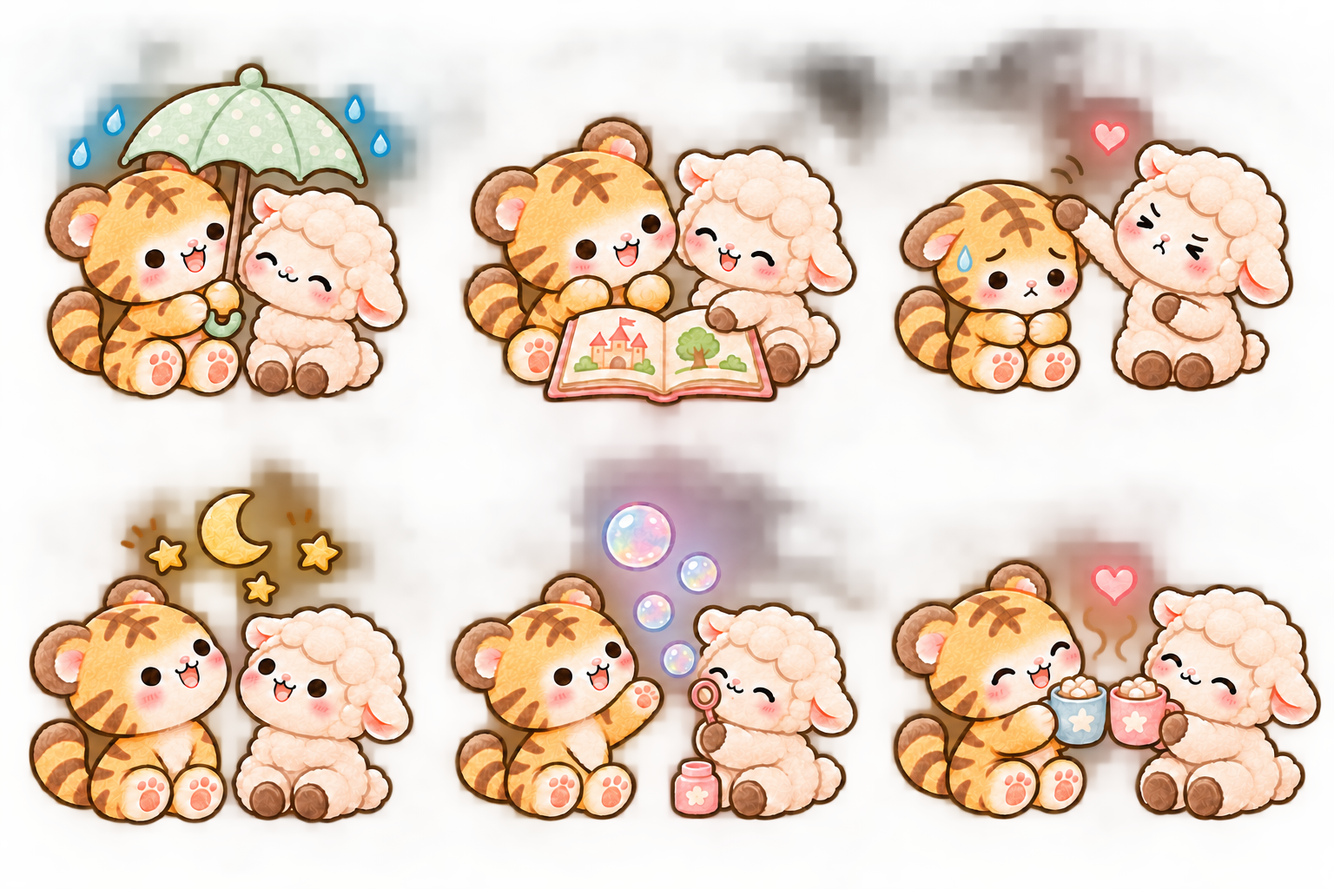
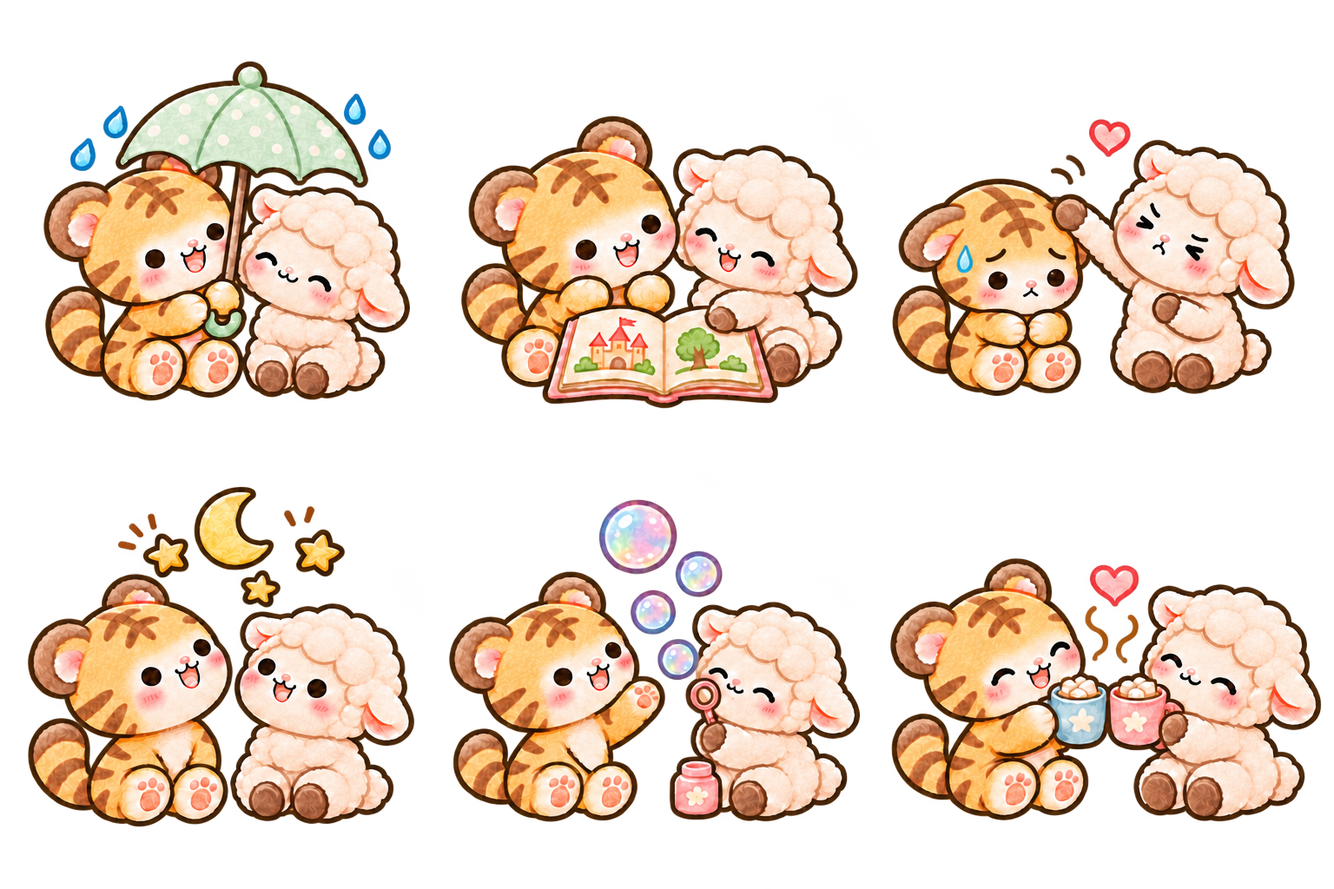
Clean interaction transparency and add memory-only note drafts 1.7.4

Changed region(s): [[0.0, 0.0312, 0.9688, 0.9375], [0.9375, 0.7188, 1.0, 0.9062], [0.8438, 0.2188, 0.9062, 0.2812]]

diff --git a/cloud-ui.js b/cloud-ui.js
@@ -1,3 +1,4 @@
+import {noteDrafts,noteDraftKey,attachNoteDraft,markNoteCompose} from './note-drafts.js';
 import {ReplyDrafts} from './reply-drafts.js';
 import {journalFilter,matchesJournal,searchControls,mountSearch,highlight,keywordHit,searchReveal,installCompose} from './journal-search.js';
 export function cloudInterface(h){
@@ -12,18 +13,19 @@ export function cloudInterface(h){
  function mountBar(main){const div=document.createElement('div');div.innerHTML=header();main.prepend(div);attach(div);}
  function login(){const session=cloud.session,d=sheet('登录云端唠唠本',`${field('账号',`<input name="username" required maxlength="32" autocomplete="username" value="${esc(session?.user.username||'')}">`)}${field('密码','<input name="password" required type="password" maxlength="128" autocomplete="current-password">')}<p class="help">账号和密码均不区分大小写。账号由管理员添加，没有公开注册。可在账号菜单中修改密码。</p><p class="error" role="alert"></p>`,`${button('取消','cancel')}<button class="primary" type="submit">登录</button>`);bind(d,'cancel',()=>d.close());$('form',d).onsubmit=async ev=>{ev.preventDefault();const f=ev.target,b=f.querySelector('[type=submit]');b.disabled=true;try{const result=await cloud.login(f.elements.username.value,f.elements.password.value);d.close();scope='shared';refresh();if(result.user.forceChange)password();}catch(e){$('.error',d).textContent=e.message;}finally{b.disabled=false;}};}
  function password(){const forced=cloud.session?.user.forceChange,d=sheet(forced?'先为账号设置新密码':'修改云端密码',`${field('原密码','<input name="old" type="password" required autocomplete="current-password">')}${field('新密码','<input name="next" type="password" required minlength="12" maxlength="128" autocomplete="new-password">')}${field('再次输入新密码','<input name="confirm" type="password" required autocomplete="new-password">')}<p class="help">至少 12 位，包含字母和数字或符号。不区分大小写。修改后其它设备需要重新登录。</p><p class="error" role="alert"></p>`,`${button('稍后','cancel')}<button class="primary" type="submit">保存新密码</button>`);bind(d,'cancel',()=>d.close());$('form',d).onsubmit=async ev=>{ev.preventDefault();const f=ev.target;if(f.elements.next.value.toLowerCase()!==f.elements.confirm.value.toLowerCase())return $('.error',d).textContent='两次输入的新密码不一致';const b=f.querySelector('[type=submit]');b.disabled=true;try{await cloud.password(f.elements.old.value,f.elements.next.value);d.close();refresh();toast('密码已修改，旧登录已失效');}catch(e){$('.error',d).textContent=e.message;}finally{b.disabled=false;}};}
- function menu(){const d=sheet('云端账号',`<h3>${esc(cloud.session.user.displayName)}</h3><p>${esc(cloud.status)}</p><p class="help">待上传 / 冲突项目：${cloud.pendingCount}。退出会移除本机云端缓存，不影响云端内容和本地旧记录。存在待上传内容时暂不退出，以免丢失修改。</p><div class="stack">${button('纪念日同步','calendar-settings')}${button('修改密码','password')}${button('导出当前账号缓存','export')}${button('退出登录','logout')}${button('共享动态通知','push-settings')}${Object.keys(cloud.state.responsePending||{}).length?button('管理待发回应','pending-replies'):''}</div><p class="error"></p>`);bind(d,'calendar-settings',()=>{d.close();calendarSettings();});bind(d,'push-settings',()=>{d.close();pushSettings();});bind(d,'pending-replies',()=>{d.close();pendingReplies();});bind(d,'password',()=>{d.close();password();});bind(d,'export',()=>{h.exportCloud({private:cloud.list('private'),shared:cloud.list('shared'),pendingResponses:cloud.state.responsePending||{}});});bind(d,'logout',async()=>{try{await cloud.logout();replyDrafts.clear();d.close();scope='shared';refresh();}catch(e){$('.error',d).textContent=e.message;}});}
+ function menu(){const d=sheet('云端账号',`<h3>${esc(cloud.session.user.displayName)}</h3><p>${esc(cloud.status)}</p><p class="help">待上传 / 冲突项目：${cloud.pendingCount}。退出会移除本机云端缓存，不影响云端内容和本地旧记录。存在待上传内容时暂不退出，以免丢失修改。</p><div class="stack">${button('纪念日同步','calendar-settings')}${button('修改密码','password')}${button('导出当前账号缓存','export')}${button('退出登录','logout')}${button('共享动态通知','push-settings')}${Object.keys(cloud.state.responsePending||{}).length?button('管理待发回应','pending-replies'):''}</div><p class="error"></p>`);bind(d,'calendar-settings',()=>{d.close();calendarSettings();});bind(d,'push-settings',()=>{d.close();pushSettings();});bind(d,'pending-replies',()=>{d.close();pendingReplies();});bind(d,'password',()=>{d.close();password();});bind(d,'export',()=>{h.exportCloud({private:cloud.list('private'),shared:cloud.list('shared'),pendingResponses:cloud.state.responsePending||{}});});bind(d,'logout',async()=>{try{await cloud.logout();replyDrafts.clear();noteDrafts.clear();d.close();scope='shared';refresh();}catch(e){$('.error',d).textContent=e.message;}});}
  function calendarSettings(){const enabled=cloud.calendar?.enabled;const d=sheet('纪念日同步',`<p>与唠唠本使用同一账号，仅本账号设备同步，不分享给另一账号。</p><p class="help">同步日期、公历/农历、提醒、首页日子和基础卡片样式；卡片照片、桌面组件与手机权限各设备保留。基础设置加密保存在同步服务。首次开启会合并本机与云端日子；冲突内容保留为本机副本。</p><p>${esc(cloud.state.calendar?.message||(enabled?'默认开启，等待同步':'已暂停同步'))}</p><p class="error"></p>`,`${button('关闭','cancel')}${button(enabled?'暂停同步':'开启并合并','enable-calendar','primary')}`);bind(d,'cancel',()=>d.close());bind(d,'enable-calendar',async()=>{try{await cloud.calendar.enable(!enabled);d.close();toast(enabled?'已暂停；云端与本机日子均保留':'已开启，正在同步纪念日');}catch(e){$('.error',d).textContent=e.message;}});}
  function render(main){main.onclick=ev=>{const photo=ev.target.closest('[data-cloud-photo]');if(photo){const n=cloud.list(scope).find(n=>n.id===photo.dataset.cloudNote);if(n)h.gallery(n.photos,+photo.dataset.cloudPhoto);return;}const head=ev.target.closest('.note-head[data-fold-note]');if(head&&!ev.target.closest('button')){head.querySelector('[data-fold]').click();return;}const accept=ev.target.closest('[data-accept-response]');if(accept){h.confirm('使用云端回应？','只移除本机冲突的待发修改，保留云端已合并的回应。',()=>cloud.discardResponse(accept.dataset.acceptResponse));return;}const fold=ev.target.closest('[data-response-fold]');if(fold){const key=fold.dataset.responseFold,set=fold.dataset.foldKind==='text'?textExpansion:responseExpansion;set.set(key,fold.dataset.open!=='true');const saved=h.captureReading();render(main);h.restoreReading(saved);return;}const edit=ev.target.closest('[data-edit-response]');if(edit){const r=cloud.responseList(edit.dataset.note).find(r=>r.id===edit.dataset.editResponse);if(r)reply(edit.dataset.note,r);return;}const b=ev.target.closest('[data-response]');if(b)reply(b.dataset.response);};main.innerHTML=header()+`<div class="journal-heading section"><h2>${scope==='shared'?'我们的共享本':'只属于我的日记'}</h2>${button('全部收起 ⌃','collapse-all','fold-all')}</div><div class="journal-sticky">${searchControls(esc,'搜索云端日记')}</div><div class="small muted" id="search-count"></div><div id="cloud-list" style="margin-top:18px"></div>`;attach(main);const draw=()=>{const all=cloud.list(scope).filter(n=>matchesJournal(n,journalFilter,n._cloud.author+' '+date(n._cloud.updatedAt)+' '+(n.editedAt?date(n.editedAt):'')+' '+cloud.responseList(n.id).filter(r=>!r.deleted).map(r=>r.comment+' '+r.author+' '+date(r.updatedAt)+' '+(r.reaction?MOODS[r.reaction.mood]:'')).join(' ')));$('#search-count',main).textContent=(journalFilter.query||journalFilter.from||journalFilter.until)?'找到 '+all.length+' 条记录':'';$('#cloud-list',main).innerHTML=all.length?all.map((n,index)=>{const key=scope+':'+n.id;const open=expansion.has(key)?expansion.get(key):searchReveal()||index===0&&!h.foldAll?.();if(n._cloud.unavailable)return recoveryCard(n);return open?`<article class="panel journal-note" data-note-anchor="${esc(scope+':'+n.id)}"><div class="row note-head" data-fold-note="${esc(n.id)}" role="button" tabindex="0" aria-label="收起这篇记录"><img class="pet ${keywordHit(MOODS[n.mood])?'mood-hit':''}" src="${pet(n.tiger,n.mood)}" alt=""><div><h3>${highlight(n._cloud.author)}${n._cloud.owner===cloud.session.user.id?' · 我':''} · ${highlight(MOODS[n.mood])}</h3><span class="small muted">记录：${highlight(n.date.replace('T',' '))}<br>${n._cloud.pending?'本机修改：':n.editedAt?'修改：':'云端更新：'}${highlight(date(n.editedAt||n._cloud.updatedAt))}</span></div><div class="note-fold-row"><button type="button" data-fold="${esc(n.id)}" data-latest="${index===0}" data-open="true">收起 ⌃</button></div></div><p class="note-text">${highlight(n.text)}</p>${n.photos?.length?`<div class="note-photos">${n.photos.map((p,i)=>`<img data-cloud-photo="${i}" data-cloud-note="${esc(n.id)}" src="${esc(p)}" alt="照片 ${i+1}" loading="lazy">`).join('')}</div>`:''}${n._cloud.conflict?`<p class="error">其它设备已更新，本地副本已保留。请选择处理方式。</p><div class="row">${button('保留为新篇','copy-'+n.id)}${button('使用云端版本','discard-'+n.id)}</div>`:n._cloud.pending?'<p class="help">待同步，内容已保存在本机</p>':''}${scope==='shared'&&!n._cloud.pending?responseArea(n.id):''}${n._cloud.owner===cloud.session.user.id?`<div class="note-actions">${button('编辑','edit-'+n.id)}</div>`:'<p class="help">对方写的内容，可以回应</p>'}</article>`:`<article class="panel journal-note compact-note" data-note-anchor="${esc(scope+':'+n.id)}"><button type="button" class="compact-toggle" data-fold="${esc(n.id)}" data-latest="${index===0}" data-open="false" aria-expanded="false"><img class="pet ${keywordHit(MOODS[n.mood])?'mood-hit':''}" src="${pet(n.tiger,n.mood)}" alt="${esc(MOODS[n.mood])}"><span class="grow"><span class="small muted">${highlight(n._cloud.author)}${n._cloud.owner===cloud.session.user.id?' · 我':''} · ${highlight(n.date.replace('T',' '))}</span><span class="one-line">${highlight(n.text||'珍藏的照片')}</span><span class="small muted">${scope==='shared'?cloud.responseList(n.id).filter(r=>!r.deleted).length+' 条回应 · ':''}${n._cloud.conflict?'待处理冲突 · ':n._cloud.pending?'待同步 · ':''}点开看看</span></span><span>⌄</span></button></article>`;}).join(''):`<div class="empty"><img src="./assets/couple.png" alt="虎羊抱心"><h3>${journalFilter.query||journalFilter.from||journalFilter.until?'没有找到匹配记录':cloud.session.user.forceChange?'先修改初始密码':scope==='shared'?'把小幸福分享给对方':'留一点只属于自己的心事'}</h3><p>${scope==='shared'?'双方都能看到，各自只能改自己的记录。':'会同步到云端，但不分享给另一个应用账号。'}</p></div>`;
    main.querySelectorAll('.note-head[data-fold-note]').forEach(head=>head.onkeydown=e=>{if(e.target===head&&(e.key==='Enter'||e.key===' ')){e.preventDefault();head.querySelector('[data-fold]').click();}});for(const n of all){bind(main,'recover-'+n.id,()=>recover(n));bind(main,'edit-'+n.id,()=>edit(n));bind(main,'copy-'+n.id,async()=>{await cloud.keepCopy(n.id);refresh();});bind(main,'discard-'+n.id,async()=>{await cloud.discard(n.id);refresh();});}
    const deleting=Object.entries(cloud.state.pending).filter(([,p])=>p.deleted&&p.conflict);if(deleting.length){const div=document.createElement('div');div.className='panel';div.innerHTML='<h3>待处理的删除冲突</h3><p class="help">这些日记已在其它设备更新，本机没有强制删除。可取消本机删除后重新查看。</p>'+deleting.map(([id])=>button('取消这次删除','cancel-delete-'+id)).join('');$('#cloud-list',main).append(div);for(const [id]of deleting)bind(div,'cancel-delete-'+id,async()=>{await cloud.discard(id);refresh();});}
-  main.querySelectorAll('[data-fold]').forEach(b=>b.onclick=()=>{const y=h.scrollTop(),key=scope+':'+b.dataset.fold;expansion.set(key,b.dataset.open!=='true');draw();h.scrollTo(y);});};mountSearch(main,()=>{expansion.clear();responseExpansion.clear();textExpansion.clear();draw();});installCompose(cloud.session.user.forceChange?null:()=>edit());bind(main,'cloud-new',()=>edit());bind(main,'collapse-all',()=>h.collapseAll());draw();}
+  main.querySelectorAll('[data-fold]').forEach(b=>b.onclick=()=>{const y=h.scrollTop(),key=scope+':'+b.dataset.fold;expansion.set(key,b.dataset.open!=='true');draw();h.scrollTo(y);});};mountSearch(main,()=>{expansion.clear();responseExpansion.clear();textExpansion.clear();draw();});installCompose(cloud.session.user.forceChange?null:()=>edit());markNoteCompose(!!noteDrafts.get(cloud.session.user.id,noteDraftKey('cloud',null,scope),'note'));bind(main,'cloud-new',()=>edit());bind(main,'collapse-all',()=>h.collapseAll());draw();}
  function recoveryCard(n){const own=n._cloud.owner===cloud.session.user.id,canRecover=n._cloud.missing;return `<article class="panel recovery-card"><h3>${highlight(n._cloud.author)}${own?' · 我':''} · ${canRecover?'待恢复':'暂未读取'}</h3><p class="small muted">${n._cloud.placeholder?'本机没有这篇正文副本':`本机正文修订号 ${n._cloud.bodyVersion}，云端修订号 ${n._cloud.version}（与 App 版本无关）`}</p>${!n._cloud.placeholder?`<p class="note-text">${highlight(n.text)}</p>`:''}<p class="help">${canRecover?(own?'其它记录已继续同步。可用本机缓存或旧记录中的原文恢复；不会自动把较旧内容当作最新版发布。':'等待作者在保留原文的设备恢复。其它共享记录可以正常使用。'):'网络或云端暂时不可用，已保留原缓存；下次同步会继续重试。'}</p>${own&&canRecover?button('选择副本恢复','recover-'+n.id,'primary'):''}</article>`;}
  function recover(n){const cached=cloud.state.items[n.id],choices=[];if(cached?.note&&!cached.placeholder)choices.push({label:'本机云端缓存 · 修订号 '+cached.bodyVersion,note:cached.note});for(const note of localNotes())choices.push({label:'旧记录 · '+note.date+' · '+(note.text||'照片日记').slice(0,24),note});if(!choices.length)return toast('本机没有原文副本。请在仍有原文的设备更新同步，或先导入该设备的本地备份。');const d=sheet('选择要恢复的原文',`${field('可用副本',`<select name="recovery-source">${choices.map((c,i)=>`<option value="${i}">${esc(c.label)}</option>`).join('')}</select>`)}<div class="recovery-preview"></div><p class="help">目标：${n._cloud.scope==='shared'?'共享本，恢复后对方可见':'私人日记，仅本账号可见'}。确认后会写入新版本，不会改变副本本身，也不会改动其它日记。</p><p class="error" role="alert"></p>`,`${button('取消','cancel')}<button type="button" data-act="restore" class="primary">恢复这篇记录</button>`);const input=$('[name=recovery-source]',d),preview=()=>{$('.recovery-preview',d).innerHTML=`<p class="note-text">${esc(choices[+input.value].note.text||'照片日记')}</p><p class="small muted">${esc(choices[+input.value].note.date)} · ${choices[+input.value].note.photos?.length||0} 张照片</p>`;};input.onchange=preview;preview();bind(d,'cancel',()=>d.close());bind(d,'restore',()=>h.confirm('确认用这个副本恢复？',n._cloud.scope==='shared'?'将选中的完整内容恢复到共享本，对方可以看到；原副本仍保留。':'将选中内容恢复到私人日记，原副本仍保留。',async()=>{try{await cloud.save({...choices[+input.value].note,id:n.id},n._cloud.scope);d.close();refresh();toast('已保存恢复副本，正在补传新版本');}catch(e){$('.error',d).textContent=e.message;}}));}
- function edit(existing){if(existing&&existing._cloud.owner!==cloud.session.user.id)return;const n=existing?JSON.parse(JSON.stringify(existing)):{id:crypto.randomUUID(),text:'',date:h.today()+'T'+new Date().toTimeString().slice(0,5),mood:0,tiger:cloud.session.user.username!=='CSX',photos:[]};const selectedScope=existing?existing._cloud.scope:scope;const d=sheet(existing?'编辑我的云端记录':'写一篇云端日记',`${field('保存位置',`<select name="scope"><option value="private" ${selectedScope==='private'?'selected':''}>私人日记 · 不分享给另一账号</option><option value="shared" ${selectedScope==='shared'?'selected':''}>共享本 · 双方可见</option></select>`)}${field('记录时间 · 自动记录',`<p class="help note-record-time">${esc(n.date.replace('T',' '))}</p>`)}${field('今天发生了什么？',`<textarea name="text" maxlength="20000" placeholder="慢慢说，我在听。">${highlight(n.text)}</textarea>`)}${button('选择心情','mood','full')}<div class="note-photos"></div>${button('＋ 添加照片','photo','full')}<p class="help">离线修改先保存在本机，联网后同步。共享本显示作者与服务器更新时间。</p><p class="error" role="alert"></p>`,`${button(existing?'删除':'取消',existing?'delete':'cancel',existing?'danger':'')}<button class="primary" type="submit">保存并同步</button>`);
+ function edit(existing){if(existing&&existing._cloud.owner!==cloud.session.user.id)return;const user=cloud.session.user.id,draftKey=noteDraftKey('cloud',existing?.id,scope),draft=noteDrafts.get(user,draftKey,'note');const original=existing?JSON.parse(JSON.stringify(existing)):{id:crypto.randomUUID(),text:'',date:h.today()+'T'+new Date().toTimeString().slice(0,5),mood:0,tiger:cloud.session.user.username!=='CSX',photos:[]};const originalScope=existing?existing._cloud.scope:scope,n=draft?structuredClone(draft.note):structuredClone(original),selectedScope=draft?.scope||originalScope;const d=sheet(existing?'编辑我的云端记录':'写一篇云端日记',`${field('保存位置',`<select name="scope"><option value="private" ${selectedScope==='private'?'selected':''}>私人日记 · 不分享给另一账号</option><option value="shared" ${selectedScope==='shared'?'selected':''}>共享本 · 双方可见</option></select>`)}${field('记录时间 · 自动记录',`<p class="help note-record-time">${esc(n.date.replace('T',' '))}</p>`)}${field('今天发生了什么？',`<textarea name="text" maxlength="20000" placeholder="慢慢说，我在听。">${esc(n.text)}</textarea>`)}${button('选择心情','mood','full')}<div class="note-photos"></div>${button('＋ 添加照片','photo','full')}<p class="help">离线修改先保存在本机，联网后同步。共享本显示作者与服务器更新时间。</p><p class="error" role="alert"></p>`,`${button('取消','cancel')}${button('暂存返回','stash-note')}${existing?button('删除','delete','danger'):''}<button class="primary" type="submit">保存并同步</button>`);
+  const gate=attachNoteDraft(d,{sheet,button,refresh,toast},{user,key:draftKey,base:{note:original,scope:originalScope},read:()=>({note:{...n,text:$('[name=text]',d).value},scope:$('[name=scope]',d).value,selectionStart:$('[name=text]',d).selectionStart,selectionEnd:$('[name=text]',d).selectionEnd})});if(draft)$('[name=text]',d).setSelectionRange(draft.selectionStart??n.text.length,draft.selectionEnd??n.text.length);
   const draw=()=>{$('[data-act=mood]',d).innerHTML=`<img src="${pet(n.tiger,n.mood)}" alt="" style="width:44px;height:44px;vertical-align:middle"> ${highlight(MOODS[n.mood])} · ${n.tiger?'小老虎':'小羊'}`;$('.note-photos',d).innerHTML=n.photos.map((p,i)=>`<div class="photo-tile"><img src="${esc(p)}" alt="照片 ${i+1}"><button type="button" data-remove="${i}" aria-label="移除照片 ${i+1}">×</button></div>`).join('');d.querySelectorAll('[data-remove]').forEach(b=>b.onclick=()=>{n.photos.splice(+b.dataset.remove,1);draw();});};draw();bind(d,'mood',()=>chooseMood(n.tiger,n.mood,(animal,mood)=>{n.tiger=animal;n.mood=mood;draw();}));
-  bind(d,'photo',async()=>{try{if(n.photos.length>=6)return toast('一篇最多 6 张照片');const f=await chooseFile('image/*');if(!f)return;n.photos.push(await h.originalFile(f));draw();}catch(e){toast(e.message);}});bind(d,'cancel',()=>d.close());bind(d,'delete',()=>h.confirm('删除我写的这篇记录？','同步后会从云端和共享本中移除。',async()=>{await cloud.remove(n.id);d.close();refresh();}));
-  $('form',d).onsubmit=async ev=>{ev.preventDefault();n.text=ev.target.elements.text.value.trim();if(!n.text&&!n.photos.length)return $('.error',d).textContent='请留下一句话或一张照片';try{await cloud.save(n,ev.target.elements.scope.value);d.close();refresh();toast('已保存在本机，正在同步');}catch(e){$('.error',d).textContent=e.message;}};
+  bind(d,'photo',async()=>{try{if(n.photos.length>=6)return toast('一篇最多 6 张照片');const f=await chooseFile('image/*');if(!f)return;n.photos.push(await h.originalFile(f));draw();}catch(e){toast(e.message);}});bind(d,'delete',()=>h.confirm('删除我写的这篇记录？','同步后会从云端和共享本中移除。',async()=>{await cloud.remove(n.id);gate.finish();refresh();}));
+  $('form',d).onsubmit=async ev=>{ev.preventDefault();n.text=ev.target.elements.text.value.trim();if(!n.text&&!n.photos.length)return $('.error',d).textContent='请留下一句话或一张照片';try{await cloud.save(n,ev.target.elements.scope.value);gate.finish();refresh();toast('已保存在本机，正在同步');}catch(e){$('.error',d).textContent=e.message;}};
  }
  function responseArea(id){const rows=cloud.responseList(id),all=responseExpansion.has(id)?responseExpansion.get(id):searchReveal()&&rows.some(r=>keywordHit((r.comment||'')+' '+r.author+' '+date(r.updatedAt)+' '+(r.reaction?MOODS[r.reaction.mood]:''))),visible=all?rows:rows.slice(-3),pending=Object.entries(cloud.state.responsePending||{}).filter(([key,p])=>(p.noteId||key)===id);return `<div class="responses"><div class="row between"><span class="small muted">留给彼此的小回应 · ${rows.filter(r=>!r.deleted).length} 条</span><button type="button" class="response-trigger" data-response="${esc(id)}">${replyDrafts.get(cloud.session.user.id,id)?'继续回应 ♡':'回应一下 ♡'}</button></div>${visible.map(r=>{const textKey=id+':'+r.id,long=Array.from(r.comment||'').length>71,open=textExpansion.has(textKey)?textExpansion.get(textKey):searchReveal()&&keywordHit(r.comment),text=long&&!open?Array.from(r.comment).slice(0,71).join('')+'…':r.comment;return `<div class="response-row">${r.reaction?`<img class="response-pet ${keywordHit(MOODS[r.reaction.mood])?'mood-hit':''}" src="${pet(r.reaction.tiger,r.reaction.mood)}" alt="${esc(MOODS[r.reaction.mood])}">`:''}<div class="response-content"><div class="response-meta"><span class="small muted">${highlight(r.author)} · ${r.pending?'待同步':(r.deleted?'已撤回 · ':r.version>1?'修改于 · ':'')+highlight(date(r.updatedAt))}</span>${r.user===cloud.session.user.id&&!r.deleted?`<button type="button" class="plain response-edit" data-edit-response="${esc(r.id)}" data-note="${esc(id)}">${replyDrafts.get(cloud.session.user.id,id,r.id)?'继续编辑':'编辑'}</button>`:''}</div>${r.deleted?'<p class="small muted">这条回应已撤回</p>':text?`<p class="response-copy ${long&&!open?'response-collapsed':''}">${highlight(text)}</p>`:r.reaction?`<p class="small">${highlight(MOODS[r.reaction.mood])}</p>`:''}${long&&!r.deleted?`<button type="button" class="plain response-more" data-response-fold="${esc(textKey)}" data-fold-kind="text" data-open="${open}">${open?'收起全文':'展开全文 · '+Array.from(r.comment).length+' 字'}</button>`:''}</div></div>`;}).join('')}${rows.length>3?`<button type="button" class="plain response-more full" data-response-fold="${esc(id)}" data-fold-kind="list" data-open="${all}">${all?'收起较早回应':'查看更早的 '+(rows.length-3)+' 条回应'}</button>`:''}${pending.map(([key,p])=>`${p.conflict?`<button type="button" data-accept-response="${esc(key)}">使用云端回应</button>`:''}<p class="help">${p.conflict?'有一条待发回应发生冲突，可编辑后重试，或在账号中管理待发回应。':'回应已保存在本机，等待同步。'}</p>`).join('')}</div>`;}
  function reply(id,own=null){const responseId=own?(own.id.startsWith('legacy:')?undefined:own.id):crypto.randomUUID();const user=cloud.session.user.id,draftKey=own?.id||'new',draft=replyDrafts.get(user,id,draftKey),originalComment=own?.comment||'';let reaction=structuredClone(draft?draft.reaction:own?.reaction||null);const signature=r=>r?JSON.stringify([r.tiger,r.mood]):'null',originalReaction=signature(own?.reaction||null);const d=sheet(own?'编辑这条回应':'留一个小回应',`<p class="help">每条最多 701 字，可以多次回应，也可以只发表情。修改或撤回只影响这一条。</p><div class="reply-choice"></div><div class="reply-actions">${button('选择虎羊表情','choose-reaction','full')}${button('不带表情','clear-reaction','full')}</div>${field('想对你说',`<textarea name="comment" rows="5" maxlength="1402" placeholder="慢慢说，每一句都会被认真收藏。">${esc(draft?.comment??originalComment)}</textarea>`)}<p class="small muted reply-count"></p><p class="error" role="alert"></p>`,`${button('取消','cancel')}${button('暂存返回','stash')}${own?button('撤回这条回应','withdraw'):''}<button class="primary" type="submit">${own?'保存修改':'发送回应'}</button>`);d.classList.add('reply-dialog');d.classList.add('draft-enabled');const input=$('[name=comment]',d);const draw=()=>{$('.reply-choice',d).innerHTML=reaction?`<img class="reply-preview" src="${pet(reaction.tiger,reaction.mood)}" alt="${esc(MOODS[reaction.mood])}"><p>${esc(MOODS[reaction.mood])}</p>`:'<p class="muted">用一个表情，轻轻抱抱你</p>';$('.reply-count',d).textContent=Array.from(input.value).length+' / 701 字';};input.oninput=draw;draw();bind(d,'choose-reaction',()=>chooseMood(reaction?.tiger??(cloud.session.user.username!=='CSX'),reaction?.mood??0,(tiger,mood)=>{reaction={tiger,mood};draw();}));bind(d,'clear-reaction',()=>{reaction=null;draw();});const close=()=>HTMLDialogElement.prototype.close.call(d),drop=()=>replyDrafts.remove(user,id,draftKey),leave=()=>{close();refresh();},stash=()=>{replyDrafts.put(user,id,draftKey,{comment:input.value,reaction,selectionStart:input.selectionStart,selectionEnd:input.selectionEnd});leave();toast('已暂存，点继续回应即可接着写；重启或刷新后清除');};let asking=false;

diff --git a/app.js b/app.js
@@ -1,3 +1,4 @@
+import {noteDrafts,noteDraftKey,attachNoteDraft,markNoteCompose} from './note-drafts.js';
 import {originalFile} from './original-photos.js';
 import {openPhotoGallery} from './photo-gallery.js';
 import {orderedEvents,installEventDrag} from './event-order.js';
@@ -91,13 +92,14 @@ function flushCloudView(){if(page!=='notes'||!cloudDirty)return;if(touchReading|
 function updateCloudView(kind='data'){cloudUi?.updateStatus();if(watchedUser!==cloud?.session?.user.id){watchedUser=cloud?.session?.user.id;armLiveSync(true,true);}if(kind==='status')return;cloudDirty=true;if(page==='notes')$('#main')?.setAttribute('aria-busy','true');clearTimeout(cloudRefreshTimer);cloudRefreshTimer=setTimeout(flushCloudView,90);}
 function armLiveSync(immediate=false,force=false){clearTimeout(liveTimer);if(document.visibilityState!=='visible'||!navigator.onLine||!cloud?.session)return;liveTimer=setTimeout(async()=>{await cloud.probe(force);armLiveSync();},immediate?Math.max(0,5000-(Date.now()-cloud.lastProbe)):syncDelay(page==='notes',cloud.probeFailures));}
 function collapseNotes(){suppressSearchReveal();localExpansion.clear();cloudUi?.resetExpansion();act(s=>s.journalCollapsed=true,()=>renderNotes());}
-function renderNotes(){if(cloudUi?.active()){cloudUi.render($('#main'));return;}const main=$('#main');main.innerHTML=`<div class="journal-heading section"><h2>小小的爱只为你</h2>${button('全部收起 ⌃','collapse-all','fold-all')}</div><div class="journal-sticky">${searchControls(esc)}</div><div id="notes-list" style="margin-top:20px"></div>`;const draw=()=>{const notes=state.notes.filter(n=>matchesJournal(n,journalFilter)).slice().sort((a,b)=>Date.parse(b.modifiedAt||b.date.replace(' ','T'))-Date.parse(a.modifiedAt||a.date.replace(' ','T')));$('#notes-list').innerHTML=notes.length?notes.map((n,index)=>{const open=localExpansion.has(n.id)?localExpansion.get(n.id):searchReveal()||index===0&&!state.journalCollapsed;return open?`<article class="panel" data-note-anchor="local:${esc(n.id)}"><div class="row note-head"><img class="pet ${keywordHit(MOODS[n.mood])?'mood-hit':''}" src="${pet(n.tiger!==false,n.mood)}" alt="${MOODS[n.mood]}"><div class="grow"><h3 style="margin:0 0 7px">${highlight(MOODS[n.mood])}的一天</h3><span class="small muted">${highlight(n.date.replace('T',' '))}</span></div><div class="note-fold-row"><button type="button" data-local-fold="${esc(n.id)}" data-latest="${index===0}" data-open="true">收起 ⌃</button></div></div><p class="note-text">${highlight(n.text)}</p>${n.photos?.length?`<div class="note-photos">${n.photos.map((p,i)=>`<img data-note="${esc(n.id)}" data-photo="${i}" src="${esc(p)}" alt="日记照片 ${i+1}" loading="lazy">`).join('')}</div>`:''}<div class="note-actions row between"><span class="small muted">♡ 平凡的小事，也值得珍藏</span><button type="button" data-edit="${esc(n.id)}">编辑</button></div></article>`:`<article class="panel compact-note" data-note-anchor="local:${esc(n.id)}"><button type="button" class="compact-toggle" data-local-fold="${esc(n.id)}" data-latest="${index===0}" data-open="false" aria-expanded="false"><img class="pet ${keywordHit(MOODS[n.mood])?'mood-hit':''}" src="${pet(n.tiger!==false,n.mood)}" alt="${MOODS[n.mood]}"><span class="grow"><span class="small muted">${highlight(MOODS[n.mood])} · ${highlight(n.date.replace('T',' '))}</span><span class="one-line">${highlight(n.text||'珍藏的照片')}</span></span><span>⌄</span></button></article>`;}).join(''):`<div class="empty"><img src="./assets/couple.png" alt="虎羊抱心"><h3>${journalFilter.query||journalFilter.from||journalFilter.until?'没有找到这段回忆':'今天，想给未来留点什么？'}</h3><p>一句碎碎念、一张照片、一点小心动。<br>这里都替你好好收着。</p></div>`;main.querySelectorAll('[data-local-fold]').forEach(b=>b.onclick=()=>{const y=readingRoot()?.scrollTop||0;localExpansion.set(b.dataset.localFold,b.dataset.open!=='true');draw();scrollPage(y);});main.querySelectorAll('[data-edit]').forEach(b=>b.onclick=()=>editNote(state.notes.find(n=>n.id===b.dataset.edit)));main.querySelectorAll('[data-photo]').forEach(im=>im.onclick=()=>openPhotoGallery(sheet,state.notes.find(n=>n.id===im.dataset.note).photos,+im.dataset.photo));bind(main,'new-note',()=>editNote());};mountSearch(main,()=>{localExpansion.clear();draw();});installCompose(()=>editNote());draw();bind(main,'collapse-all',collapseNotes);cloudUi?.mountBar(main);}
-function editNote(existing){const n=existing?clone(existing):{id:uid(),text:'',date:today()+'T'+new Date().toTimeString().slice(0,5),mood:0,tiger:cloud?.session?.user.username!=='CSX',photos:[]};n.photos||=[];
-  const d=sheet(existing?'编辑这页日常':'写一页我们的日常',`${field('记录时间 · 自动记录',`<p class="help note-record-time">${esc(n.date.replace('T',' '))}</p>`)}${field('今天发生了什么？',`<textarea name="text" maxlength="5000" style="min-height:150px" placeholder="慢慢说，我在听。">${esc(n.text)}</textarea>`)}<h3>今天的心情</h3><button type="button" class="row full" data-act="mood"></button><h3 class="sheet-title">一起珍藏的照片 · 最多 6 张</h3><div id="note-photos" class="grid2"></div><div style="margin-top:14px">${button('＋ 从系统相册添加照片','add-photo','full')}</div><p class="help">在系统选图界面可切换相册。照片会缩小后保存在本机。</p><p class="error" role="alert"></p>`,`${button(existing?'删除':'稍后再写',existing?'delete':'cancel',existing?'danger':'')}<button class="primary" type="submit">收藏这一天</button>`);
+function renderNotes(){if(cloudUi?.active()){cloudUi.render($('#main'));return;}const main=$('#main');main.innerHTML=`<div class="journal-heading section"><h2>小小的爱只为你</h2>${button('全部收起 ⌃','collapse-all','fold-all')}</div><div class="journal-sticky">${searchControls(esc)}</div><div id="notes-list" style="margin-top:20px"></div>`;const draw=()=>{const notes=state.notes.filter(n=>matchesJournal(n,journalFilter)).slice().sort((a,b)=>Date.parse(b.modifiedAt||b.date.replace(' ','T'))-Date.parse(a.modifiedAt||a.date.replace(' ','T')));$('#notes-list').innerHTML=notes.length?notes.map((n,index)=>{const open=localExpansion.has(n.id)?localExpansion.get(n.id):searchReveal()||index===0&&!state.journalCollapsed;return open?`<article class="panel" data-note-anchor="local:${esc(n.id)}"><div class="row note-head"><img class="pet ${keywordHit(MOODS[n.mood])?'mood-hit':''}" src="${pet(n.tiger!==false,n.mood)}" alt="${MOODS[n.mood]}"><div class="grow"><h3 style="margin:0 0 7px">${highlight(MOODS[n.mood])}的一天</h3><span class="small muted">${highlight(n.date.replace('T',' '))}</span></div><div class="note-fold-row"><button type="button" data-local-fold="${esc(n.id)}" data-latest="${index===0}" data-open="true">收起 ⌃</button></div></div><p class="note-text">${highlight(n.text)}</p>${n.photos?.length?`<div class="note-photos">${n.photos.map((p,i)=>`<img data-note="${esc(n.id)}" data-photo="${i}" src="${esc(p)}" alt="日记照片 ${i+1}" loading="lazy">`).join('')}</div>`:''}<div class="note-actions row between"><span class="small muted">♡ 平凡的小事，也值得珍藏</span><button type="button" data-edit="${esc(n.id)}">编辑</button></div></article>`:`<article class="panel compact-note" data-note-anchor="local:${esc(n.id)}"><button type="button" class="compact-toggle" data-local-fold="${esc(n.id)}" data-latest="${index===0}" data-open="false" aria-expanded="false"><img class="pet ${keywordHit(MOODS[n.mood])?'mood-hit':''}" src="${pet(n.tiger!==false,n.mood)}" alt="${MOODS[n.mood]}"><span class="grow"><span class="small muted">${highlight(MOODS[n.mood])} · ${highlight(n.date.replace('T',' '))}</span><span class="one-line">${highlight(n.text||'珍藏的照片')}</span></span><span>⌄</span></button></article>`;}).join(''):`<div class="empty"><img src="./assets/couple.png" alt="虎羊抱心"><h3>${journalFilter.query||journalFilter.from||journalFilter.until?'没有找到这段回忆':'今天，想给未来留点什么？'}</h3><p>一句碎碎念、一张照片、一点小心动。<br>这里都替你好好收着。</p></div>`;main.querySelectorAll('[data-local-fold]').forEach(b=>b.onclick=()=>{const y=readingRoot()?.scrollTop||0;localExpansion.set(b.dataset.localFold,b.dataset.open!=='true');draw();scrollPage(y);});main.querySelectorAll('[data-edit]').forEach(b=>b.onclick=()=>editNote(state.notes.find(n=>n.id===b.dataset.edit)));main.querySelectorAll('[data-photo]').forEach(im=>im.onclick=()=>openPhotoGallery(sheet,state.notes.find(n=>n.id===im.dataset.note).photos,+im.dataset.photo));bind(main,'new-note',()=>editNote());};mountSearch(main,()=>{localExpansion.clear();draw();});installCompose(()=>editNote());markNoteCompose(!!noteDrafts.get(cloud?.session?.user.id||'local',noteDraftKey('local'),'note'));draw();bind(main,'collapse-all',collapseNotes);cloudUi?.mountBar(main);}
+function editNote(existing){const user=cloud?.session?.user.id||'local',draftKey=noteDraftKey('local',existing?.id),draft=noteDrafts.get(user,draftKey,'note');const original=existing?clone(existing):{id:uid(),text:'',date:today()+'T'+new Date().toTimeString().slice(0,5),mood:0,tiger:cloud?.session?.user.username!=='CSX',photos:[]};original.photos||=[];const n=draft?clone(draft.note):clone(original);n.photos||=[];
+  const d=sheet(existing?'编辑这页日常':'写一页我们的日常',`${field('记录时间 · 自动记录',`<p class="help note-record-time">${esc(n.date.replace('T',' '))}</p>`)}${field('今天发生了什么？',`<textarea name="text" maxlength="5000" style="min-height:150px" placeholder="慢慢说，我在听。">${esc(n.text)}</textarea>`)}<h3>今天的心情</h3><button type="button" class="row full" data-act="mood"></button><h3 class="sheet-title">一起珍藏的照片 · 最多 6 张</h3><div id="note-photos" class="grid2"></div><div style="margin-top:14px">${button('＋ 从系统相册添加照片','add-photo','full')}</div><p class="help">在系统选图界面可切换相册。原图保存在本机，暂存不会上传。</p><p class="error" role="alert"></p>`,`${button('取消','cancel')}${button('暂存返回','stash-note')}${existing?button('删除','delete','danger'):''}<button class="primary" type="submit">收藏这一天</button>`);
+  const gate=attachNoteDraft(d,{sheet,button,refresh:refreshNotes,toast},{user,key:draftKey,base:{note:original},read:()=>({note:{...n,text:$('[name=text]',d).value},selectionStart:$('[name=text]',d).selectionStart,selectionEnd:$('[name=text]',d).selectionEnd})});if(draft)$('[name=text]',d).setSelectionRange(draft.selectionStart??n.text.length,draft.selectionEnd??n.text.length);
   const draw=()=>{$('[data-act=mood]',d).innerHTML=`<img src="${pet(n.tiger,n.mood)}" style="width:58px;height:58px;object-fit:contain" alt="">${MOODS[n.mood]} · ${n.tiger?'小老虎':'小羊'} ▾`;$('#note-photos',d).innerHTML=n.photos.map((p,i)=>`<div class="photo-tile"><img src="${esc(p)}" alt="照片 ${i+1}"><button type="button" aria-label="移除照片 ${i+1}" data-remove="${i}">×</button></div>`).join('');d.querySelectorAll('[data-remove]').forEach(b=>b.onclick=()=>{n.photos.splice(+b.dataset.remove,1);draw();});};draw();bind(d,'mood',()=>chooseMood(n.tiger,n.mood,(who,mood)=>{n.tiger=who;n.mood=mood;draw();}));
   bind(d,'add-photo',async()=>{if(n.photos.length>=6)return toast('一篇最多珍藏 6 张照片');try{const file=await chooseFile('image/*');if(!file)return;n.photos.push(await originalFile(file));draw();}catch(e){toast(e.message);}});
-  bind(d,'cancel',()=>d.close());bind(d,'delete',()=>confirmAction('删除这页日常？','这篇心情和照片会从本机记录中移除。',()=>act(s=>s.notes=s.notes.filter(x=>x.id!==n.id),()=>{d.close();render();})));
-  $('form',d).onsubmit=async ev=>{ev.preventDefault();const f=ev.target;n.text=f.elements.text.value.trim();if(existing)n.modifiedAt=new Date().toISOString();if(!n.text&&!n.photos.length)return $('.error',d).textContent='留下一句话或一张照片吧';if(!validDate(n.date.slice(0,10)))return;await act(s=>{const i=s.notes.findIndex(x=>x.id===n.id);if(i<0)s.notes.push(n);else s.notes[i]=n;},()=>{d.close();render();toast('今天的小幸福，已收藏');});};
+  bind(d,'delete',()=>confirmAction('删除这页日常？','这篇心情和照片会从本机记录中移除。',()=>act(s=>s.notes=s.notes.filter(x=>x.id!==n.id),()=>{gate.finish();refreshNotes();})));
+  $('form',d).onsubmit=async ev=>{ev.preventDefault();const f=ev.target;n.text=f.elements.text.value.trim();if(existing)n.modifiedAt=new Date().toISOString();if(!n.text&&!n.photos.length)return $('.error',d).textContent='留下一句话或一张照片吧';if(!validDate(n.date.slice(0,10)))return;await act(s=>{const i=s.notes.findIndex(x=>x.id===n.id);if(i<0)s.notes.push(n);else s.notes[i]=n;},()=>{gate.finish();refreshNotes();toast('今天的小幸福，已收藏');});};
 }
 function chooseFile(accept){return new Promise(resolve=>{const input=document.createElement('input');input.type='file';input.accept=accept;input.hidden=true;document.body.append(input);input.onchange=()=>{resolve(input.files?.[0]);input.remove();};input.oncancel=()=>{resolve(null);input.remove();};input.click();});}
 async function imageFromFile(file){if(file.size>35*1024*1024)throw Error('这张照片超过 35 MB，请先缩小后再选择');const url=URL.createObjectURL(file);try{return await loadImage(url);}finally{URL.revokeObjectURL(url);}}
@@ -132,7 +134,7 @@ async function exportCard(e,style,square){
 }
 function download(blob,name){const url=URL.createObjectURL(blob),a=document.createElement('a');a.href=url;a.download=name;document.body.append(a);a.click();a.remove();setTimeout(()=>URL.revokeObjectURL(url),60000);}
 function installHelp(){const standalone=matchMedia('(display-mode:standalone)').matches||navigator.standalone;const d=sheet('把恋爱手记放在主屏幕',`<div class="status">${standalone?'✓ 已从主屏幕打开':'当前在浏览器中打开'}<br>${navigator.onLine?'已联网':'当前离线'} · ${navigator.serviceWorker.controller?'离线程序已就绪':'首次打开请联网等待离线程序准备'}</div><ol class="install-help"><li>在 iPhone 的 <strong>Safari</strong> 打开本站。</li><li>轻点分享按钮，选择“添加到主屏幕”；如有“作为网页 App 打开”，请开启。</li><li>确认添加后，从桌面的爱心图标打开。</li></ol><p class="help">首次打开需联网，离线程序就绪后可在断网时记日子和日记。Safari 与主屏幕版可能使用独立存储，建议安装后再正式记录；切换前可导出备份。</p><p class="help">iPhone 桌面小组件需原生 App；提醒请在设置中导出日历。系统清理网站数据、移除网页 App 或更换手机可能丢失记录，请定期备份。</p><p class="help">iPhone 图标固定使用“心里的虎羊”。已安装的桌面图标不保证随程序自动刷新；换图标前先导出备份，再从 Safari 添加新的网页 App，确认数据已恢复后再处理旧入口。</p>${installPrompt?button('安装到这台设备','install','primary full'):''}`);bind(d,'install',async()=>{await installPrompt.prompt();installPrompt=null;d.close();});}
-function renderSettings(){const main=$('#main'),r=reminders(state);main.innerHTML=`<div class="install"><strong>只属于这台手机的小世界</strong><br>纪念日与本地旧日记保存在本机。登录后的云端日记经权限校验后同步到坚果云；共享本双方可见，私人日记不分享给另一应用账号。</div><div class="panel"><div class="row"><img src="./assets/tiger-lamb-heart-180.png" alt="心里的虎羊软件图标" width="88" height="88" style="border-radius:20px"><div><h3>软件图标 · 心里的虎羊</h3><p class="help">iPhone 版固定使用这张图标。</p></div></div><p class="help">功能更新无需重新添加到主屏幕。若桌面仍显示旧图标，请先导出备份，再用 Safari 重新添加网页 App，确认记录恢复后再移除旧入口。</p></div><div class="panel"><h3>外观与称呼</h3>${field('外观',`<select id="appearance"><option value="system">跟随系统</option><option value="light">浅色 · 奶油日光</option><option value="dark">深色 · 玫瑰夜色</option></select>`)}${field('我们的称呼',`<input id="names" maxlength="40" value="${esc(state.names||'ZYW♥CSX')}">`)}${button('保存称呼','save-names','full')}</div><div class="panel stack"><h3>让重要的日子，不被错过</h3><p class="help">已设好 ${r.length} 个未来日期（未来 10 年内）。纯 GitHub Pages 不能在关闭网页后自行定时推送。将提醒导入 iPhone 日历，由系统执行当天与提前 3 天的提醒；需允许日历通知。</p>${button('导出 iPhone 日历提醒（.ics）','calendar','primary full')}${button('里程管理 · 常用默认项','milestones')}<p class="help">导出后在“文件”中打开 .ics，添加到单独的“恋爱手记”日历。若当前 iOS 仅预览文件，可用日历账户的导入功能，或把文件在电脑日历中导入后同步到手机。修改或删除日期后需删除旧日历项目再重新导入。生日与年度日期导出未来 10 年；2 月 29 日在平年按 2 月 28 日。</p></div><div class="panel stack"><h3>给回忆一份备份</h3><p class="help">完整备份包含纪念日、心情和照片。可导入本 PWA 的 JSON 备份，也可导入安卓版导出的 ZIP。PWA 备份尚不能直接导回安卓 App。</p>${button('导出本地完整备份','backup','primary full')}${button('从备份恢复 · JSON / Android ZIP','restore')}<p class="help">恢复将替换本机现有记录，建议先导出一份。</p></div><div class="panel stack"><h3>安装与离线</h3>${button('添加到主屏幕 · 安装帮助','install-help')}${button('检查程序更新','update')}${button('申请持久保存本机数据','persist')}<p class="help">系统是否持久保留由浏览器决定，不能代替备份。更新程序不会主动清空数据。</p></div><p class="footer-quote">ZYW<span class="heart">♥</span>CSX的恋爱手记 · PWA 1.7.3<br>愿每一个普通日子，都有被爱的证据。</p>`;
+function renderSettings(){const main=$('#main'),r=reminders(state);main.innerHTML=`<div class="install"><strong>只属于这台手机的小世界</strong><br>纪念日与本地旧日记保存在本机。登录后的云端日记经权限校验后同步到坚果云；共享本双方可见，私人日记不分享给另一应用账号。</div><div class="panel"><div class="row"><img src="./assets/tiger-lamb-heart-180.png" alt="心里的虎羊软件图标" width="88" height="88" style="border-radius:20px"><div><h3>软件图标 · 心里的虎羊</h3><p class="help">iPhone 版固定使用这张图标。</p></div></div><p class="help">功能更新无需重新添加到主屏幕。若桌面仍显示旧图标，请先导出备份，再用 Safari 重新添加网页 App，确认记录恢复后再移除旧入口。</p></div><div class="panel"><h3>外观与称呼</h3>${field('外观',`<select id="appearance"><option value="system">跟随系统</option><option value="light">浅色 · 奶油日光</option><option value="dark">深色 · 玫瑰夜色</option></select>`)}${field('我们的称呼',`<input id="names" maxlength="40" value="${esc(state.names||'ZYW♥CSX')}">`)}${button('保存称呼','save-names','full')}</div><div class="panel stack"><h3>让重要的日子，不被错过</h3><p class="help">已设好 ${r.length} 个未来日期（未来 10 年内）。纯 GitHub Pages 不能在关闭网页后自行定时推送。将提醒导入 iPhone 日历，由系统执行当天与提前 3 天的提醒；需允许日历通知。</p>${button('导出 iPhone 日历提醒（.ics）','calendar','primary full')}${button('里程管理 · 常用默认项','milestones')}<p class="help">导出后在“文件”中打开 .ics，添加到单独的“恋爱手记”日历。若当前 iOS 仅预览文件，可用日历账户的导入功能，或把文件在电脑日历中导入后同步到手机。修改或删除日期后需删除旧日历项目再重新导入。生日与年度日期导出未来 10 年；2 月 29 日在平年按 2 月 28 日。</p></div><div class="panel stack"><h3>给回忆一份备份</h3><p class="help">完整备份包含纪念日、心情和照片。可导入本 PWA 的 JSON 备份，也可导入安卓版导出的 ZIP。PWA 备份尚不能直接导回安卓 App。</p>${button('导出本地完整备份','backup','primary full')}${button('从备份恢复 · JSON / Android ZIP','restore')}<p class="help">恢复将替换本机现有记录，建议先导出一份。</p></div><div class="panel stack"><h3>安装与离线</h3>${button('添加到主屏幕 · 安装帮助','install-help')}${button('检查程序更新','update')}${button('申请持久保存本机数据','persist')}<p class="help">系统是否持久保留由浏览器决定，不能代替备份。更新程序不会主动清空数据。</p></div><p class="footer-quote">ZYW<span class="heart">♥</span>CSX的恋爱手记 · PWA 1.7.4<br>愿每一个普通日子，都有被爱的证据。</p>`;
   $('#appearance').value=state.appearance||'system';$('#appearance').onchange=ev=>act(s=>s.appearance=ev.target.value,render);bind(main,'save-names',()=>act(s=>s.names=$('#names').value.trim()||'ZYW♥CSX',()=>toast('已经记住啦')));bind(main,'install-help',installHelp);bind(main,'calendar',()=>{if(!r.length)return toast('请先编辑一个日子，开启日期或里程碑提醒');download(new Blob([calendar(state)],{type:'text/calendar;charset=utf-8'}),'恋爱手记提醒.ics');toast('日历文件已生成，请打开后导入系统日历');});bind(main,'backup',()=>{download(new Blob([JSON.stringify({format:'lovenotes-pwa',version:1,exported:new Date().toISOString(),data:state},null,2)],{type:'application/json'}),`恋爱手记备份-${today()}.json`);toast('请妥善保存备份，其中包含照片和日记');});bind(main,'restore',importBackup);bind(main,'milestones',manageDefaults);bind(main,'persist',async()=>{try{toast(await navigator.storage?.persist?.()?'已获得本机持久保存许可，仍建议定期备份':'浏览器暂未允许持久保存，请定期导出备份');}catch{toast('当前浏览器不提供持久保存，请定期备份');}});bind(main,'update',checkUpdate);
 }
 function manageDefaults(){const library=clone(state.milestoneLibrary||DEFAULTS),draft={milestoneOptions:library.map(o=>({unit:o.unit,value:o.value,enabled:!!o.pinned}))};const d=sheet('管理常用里程','<p class="help">开关决定是否作为新日子的默认项。删除或关闭不会改写已有日子的提醒。</p><div id="default-editor"></div>',`${button('取消','cancel')}${button('保存默认项','save','primary')}`);milestoneEditor($('#default-editor',d),draft,library);bind(d,'cancel',()=>d.close());bind(d,'save',()=>act(s=>s.milestoneLibrary=draft.milestoneOptions.map(o=>({unit:o.unit,value:o.value,pinned:o.enabled})),()=>{d.close();render();toast('常用默认项已保存');}));

diff --git a/note-drafts.js b/note-drafts.js
@@ -1,0 +1,11 @@
+import {ReplyDrafts} from './reply-drafts.js';
+export const noteDrafts=new ReplyDrafts();
+export function noteDraftKey(kind,id,scope=''){return kind+':'+(id||'new:'+scope);}
+const same=(a,b)=>a.scope===b.scope&&a.note.text===b.note.text&&a.note.mood===b.note.mood&&a.note.tiger===b.note.tiger&&(a.note.photos||[]).length===(b.note.photos||[]).length&&(a.note.photos||[]).every((p,i)=>p===b.note.photos[i]);
+export function attachNoteDraft(d,h,{user,key,base,read}){
+ const rawClose=()=>HTMLDialogElement.prototype.close.call(d),drop=()=>noteDrafts.remove(user,key,'note'),finish=()=>{drop();rawClose();},leave=()=>{rawClose();h.refresh();};
+ const stash=()=>{noteDrafts.put(user,key,'note',read());leave();h.toast('笔记已暂存，可点继续写；刷新或进程结束后清除');};let asking=false;
+ const cancel=()=>{if(same(read(),base)){drop();leave();return;}if(asking)return;asking=true;const q=h.sheet('这篇笔记还没写完','<p>可以暂存后浏览原文，稍后接着写。</p><p class="help">文字、心情和已选照片不上传，仅在本次运行内暂存。</p>',h.button('继续写','keep')+h.button('放弃编辑','discard')+h.button('暂存返回','stash','primary'));q.classList.add('reply-exit-dialog');q.addEventListener('close',()=>asking=false,{once:true});q.querySelector('[data-act=keep]').onclick=()=>q.close();q.querySelector('[data-act=discard]').onclick=()=>{drop();q.close();leave();};q.querySelector('[data-act=stash]').onclick=()=>{q.close();stash();};};
+ d.close=cancel;d.addEventListener('cancel',e=>{e.preventDefault();cancel();});d.querySelector('[data-act=cancel]').onclick=cancel;d.querySelector('[data-act=stash-note]').onclick=stash;d.classList.add('note-draft-dialog');return {finish,drop};
+}
+export function markNoteCompose(hasDraft){const b=document.querySelector('#journal-compose');if(b){b.setAttribute('aria-label',hasDraft?'继续写':'写一篇');b.querySelector('.compose-label').textContent=hasDraft?'继续写':'写一篇';}}

diff --git a/sw.js b/sw.js
@@ -1,5 +1,5 @@
-const CACHE='lovenotes-pwa-1.7.3-heading-final';
-const FILES=['./','./index.html','./app.css','./app.js','./core.js','./lunar.js','./lunar-data.js','./image-blur.js','./cloud.js','./original-photos.js','./photo-gallery.js','./calendar-sync.js','./event-order.js','./journal-search.js','./live-ui.js','./sync-policy.js','./cloud-ui.js','./cloud-config.js','./manifest.webmanifest','./assets/couple.png','./assets/interaction_atlas.png','./assets/interaction_reverse_atlas.png','./assets/interaction_daily_atlas.png','./reply-drafts.js','./assets/mood_atlas.png','./assets/tiger-lamb-heart-180.png','./assets/tiger-lamb-heart-192.png','./assets/tiger-lamb-heart-512.png','./vendor/fflate.js'];
+const CACHE='lovenotes-pwa-1.7.4-heading-final';
+const FILES=['./','./index.html','./app.css','./app.js','./core.js','./lunar.js','./lunar-data.js','./image-blur.js','./cloud.js','./original-photos.js','./photo-gallery.js','./calendar-sync.js','./event-order.js','./journal-search.js','./live-ui.js','./sync-policy.js','./cloud-ui.js','./cloud-config.js','./manifest.webmanifest','./assets/couple.png','./assets/interaction_atlas.png','./assets/interaction_reverse_atlas.png','./assets/interaction_daily_atlas.png','./reply-drafts.js','./note-drafts.js','./assets/mood_atlas.png','./assets/tiger-lamb-heart-180.png','./assets/tiger-lamb-heart-192.png','./assets/tiger-lamb-heart-512.png','./vendor/fflate.js'];
 self.addEventListener('install',event=>{event.waitUntil(caches.open(CACHE).then(cache=>cache.addAll(FILES.map(url=>new Request(new URL(url,self.registration.scope),{cache:'reload'})))));});
 self.addEventListener('activate',event=>{event.waitUntil(caches.keys().then(keys=>Promise.all(keys.filter(k=>k.startsWith('lovenotes-pwa-')&&k!==CACHE).map(k=>caches.delete(k)))).then(()=>self.clients.claim()));});
 self.addEventListener('message',event=>{if(event.data==='ACTIVATE_UPDATE')self.skipWaiting();});

diff --git a/app.css b/app.css
@@ -87,3 +87,5 @@ html,body{height:100%;overflow:hidden}#app{position:fixed;top:var(--app-top,0px)
 .reply-exit-dialog .modal-foot{display:flex;flex-wrap:wrap;gap:10px}
 .reply-exit-dialog .modal-foot button{min-height:44px;padding:11px 12px;font-size:13px}
 .reply-dialog:focus,.reply-exit-dialog:focus{outline:none}
+
+.note-draft-dialog .modal-foot{display:flex;flex-wrap:wrap;gap:10px}.note-draft-dialog .modal-foot button{min-height:44px;font-size:13px;padding:11px 13px;white-space:nowrap}.note-draft-dialog .modal-foot [type=submit]{margin-left:auto}.note-draft-dialog:focus{outline:none}

diff --git a/README.md b/README.md
@@ -1,9 +1,17 @@
-# ZYW♥CSX的恋爱手记 · PWA 1.7.3
+# ZYW♥CSX的恋爱手记 · PWA 1.7.4
 
 可添加到 iPhone 主屏幕的离线恋爱手记。[打开手记](https://zhangsanfenx.github.io/love-notes-pwa/)。原生 Android 项目的网页版，不包含广告或分析脚本。未登录的记录只保存在本机；主动登录后，云日记通过独立同步服务保存到坚果云，不上传到 GitHub。
 
 
 
+
+
+## 1.9.4 / PWA 1.7.4 透明表情与笔记暂存
+
+- 清除新6款互动表情周围的半透明雾、灰色方块与光晕；保留角色、雨滴、星星、泡泡和道具。实际浅色/深色选择器均已核对。
+- 写笔记支持暂存返回，覆盖私人日记、共享本、本地旧记录，以及修改已有笔记。暂存文字、心情、所选照片、光标和保存位置；单一写作入口变为继续写。
+- 取消、关闭和返回会提示继续写、放弃编辑或暂存；暂存不创建记录、不进入同步队列。正式保存或放弃清理对应暂存，刷新页面或应用进程结束后清除运行内存。后台挂起不等于结束进程。
+- 笔记暂存与回应暂存独立，按账号、笔记及所在页面隔离；旧版正式记录与已发送内容不变。
 
 ## 1.9.3 / PWA 1.7.3 回应暂存与新互动表情
 
